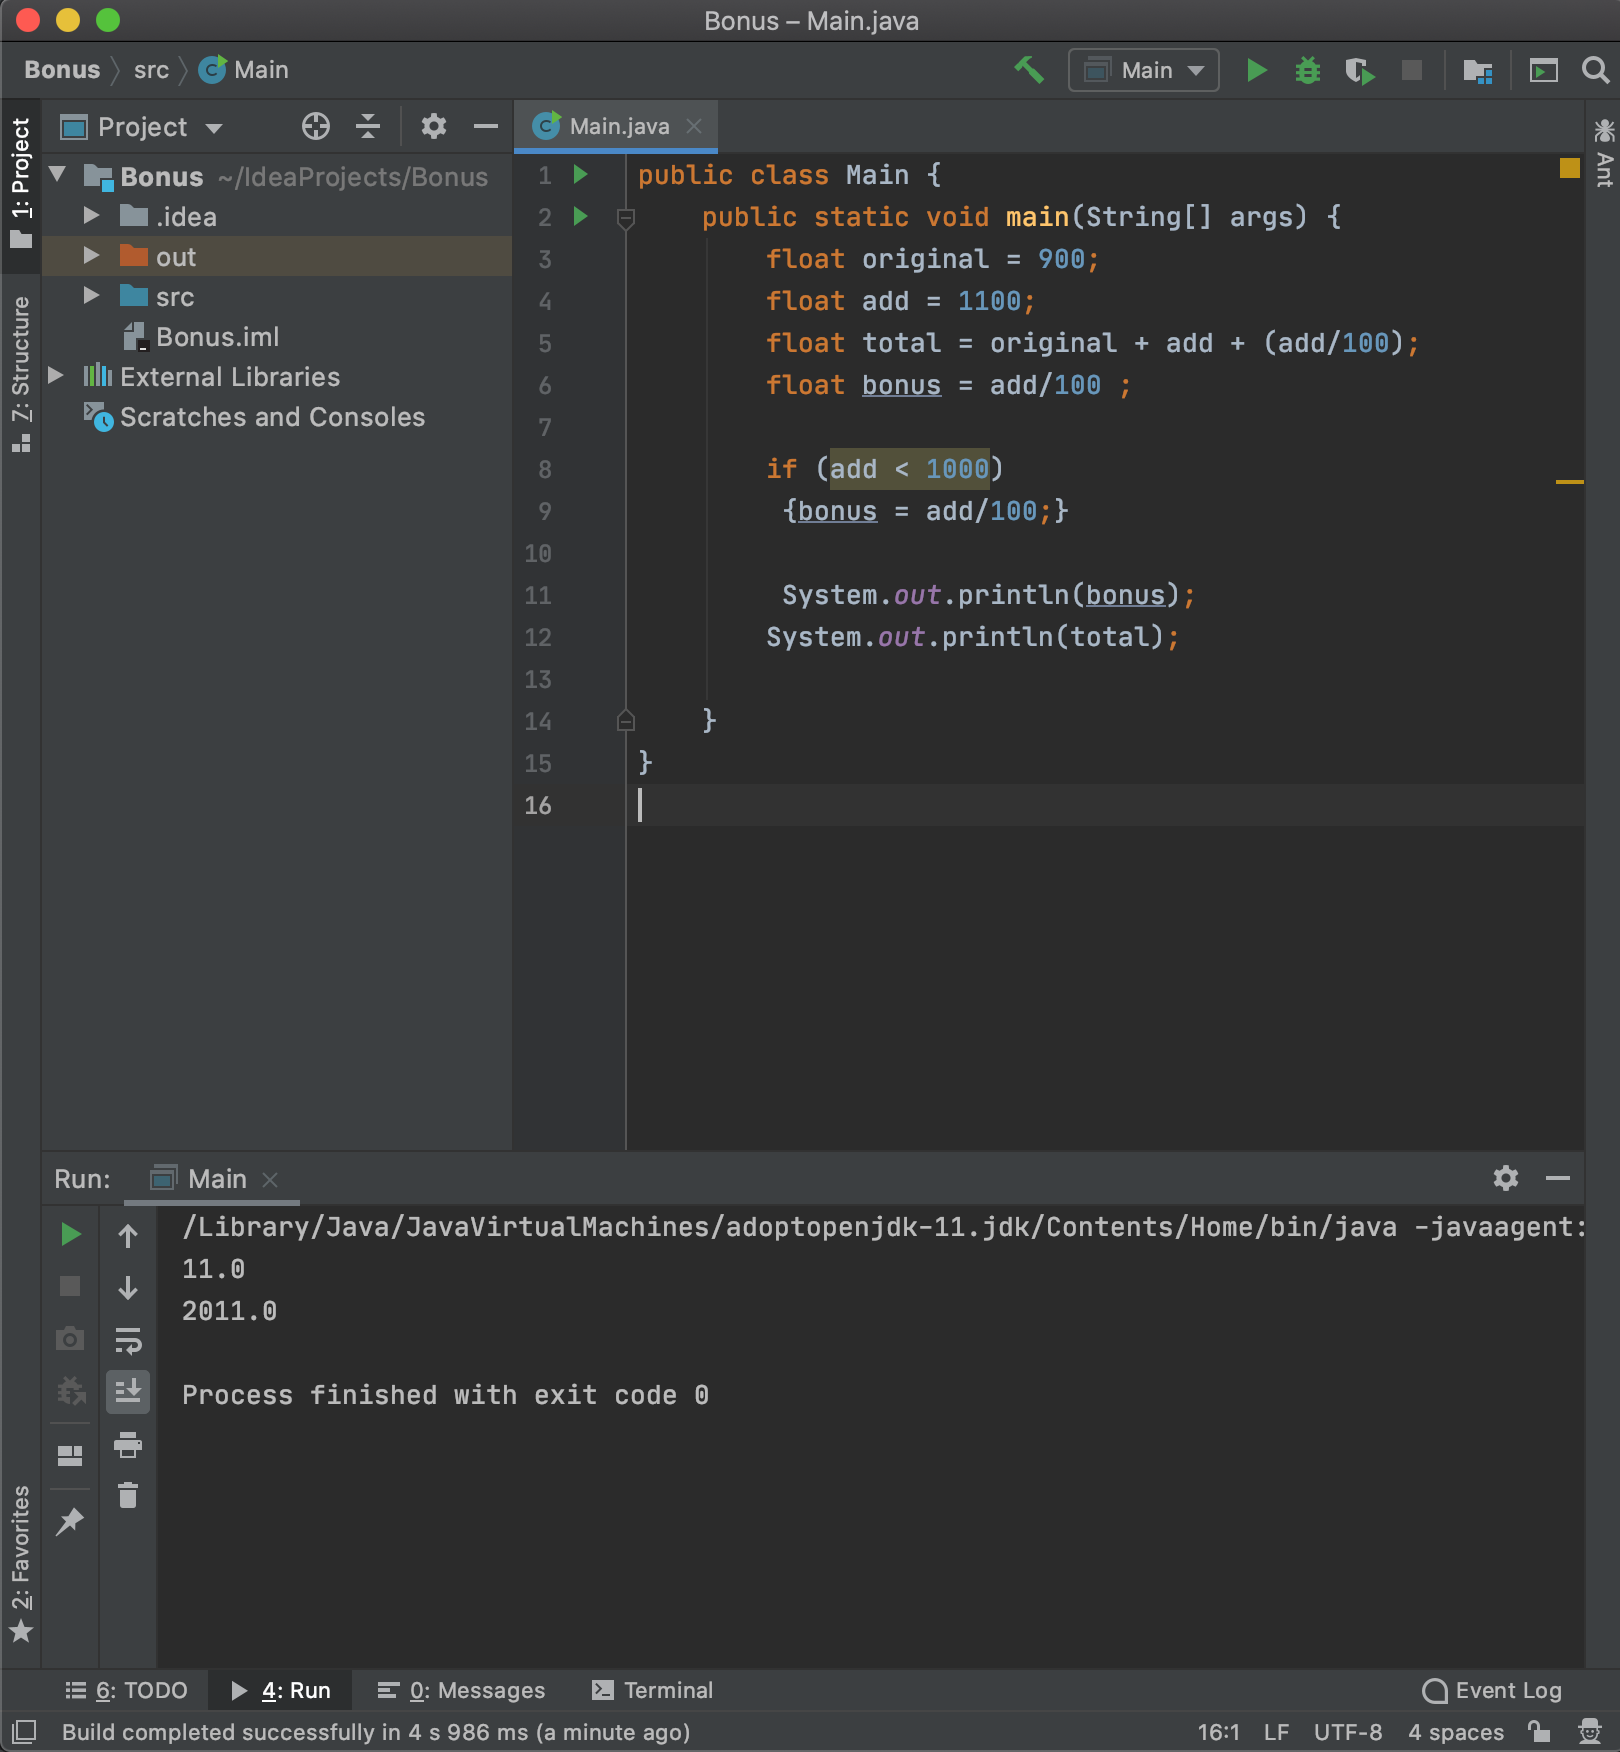
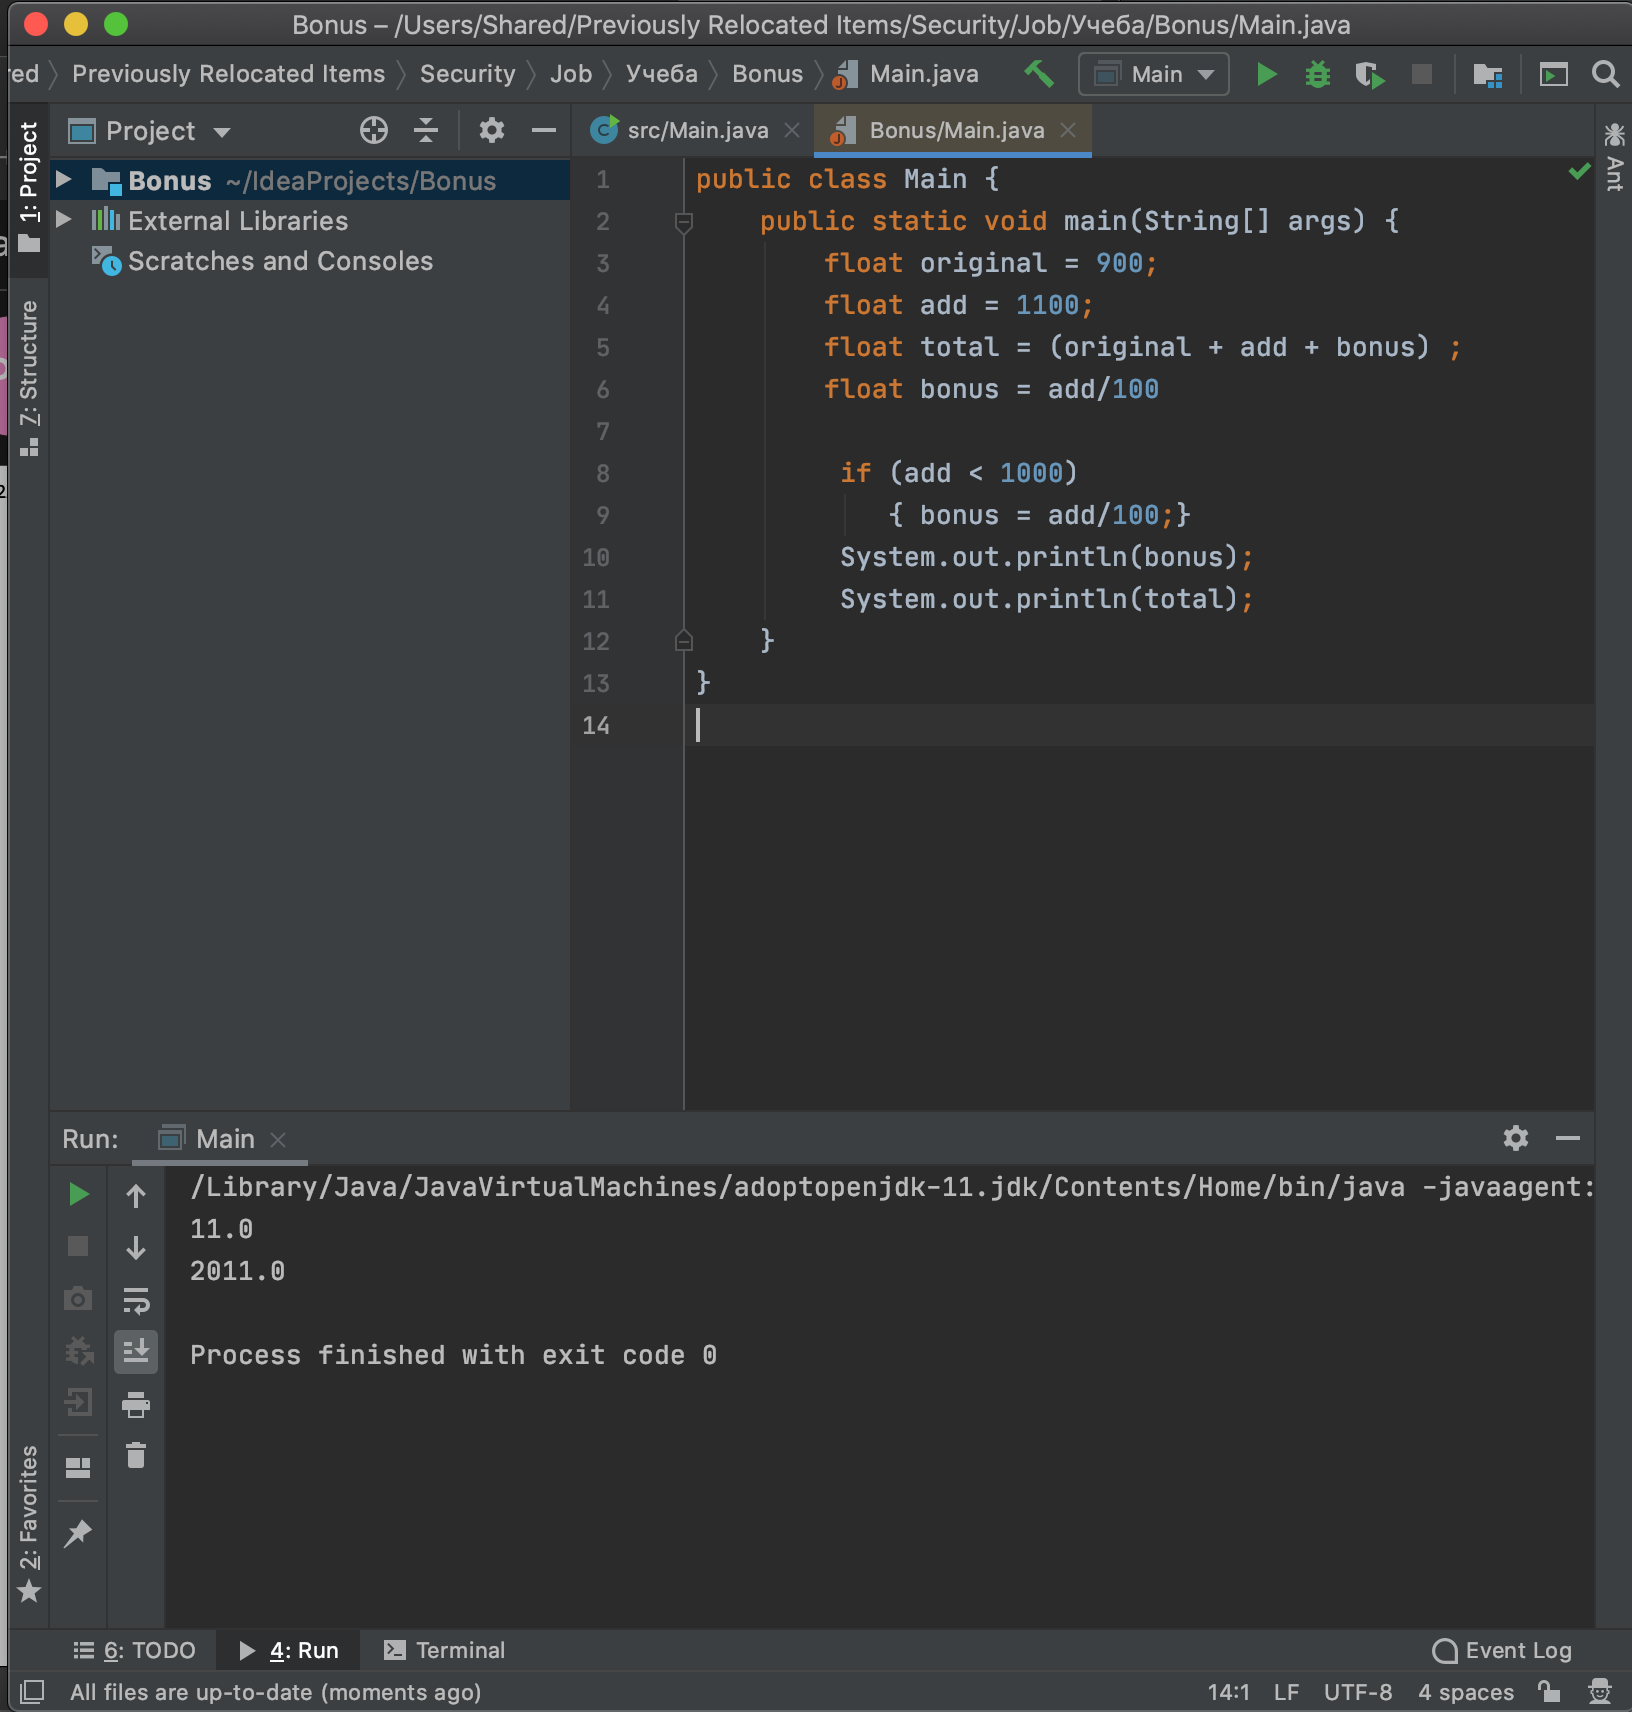
0206

diff --git a/Main.java b/Main.java
@@ -2,8 +2,8 @@ public class Main {
     public static void main(String[] args) {
         float original = 900;
         float add = 1100;
-        float total = (original + add + (add/100)) ;
-        float bonus = add/100
+        float total = (original + add + bonus) ;
+        float bonus = add/100;
 
          if (add < 1000)
             { bonus = add/100;}
